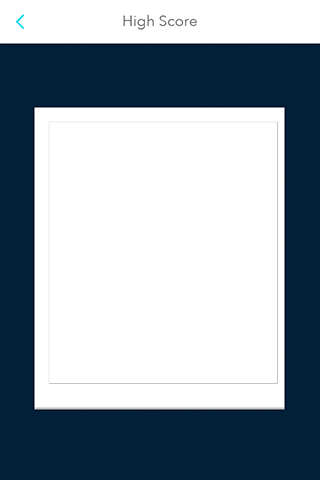
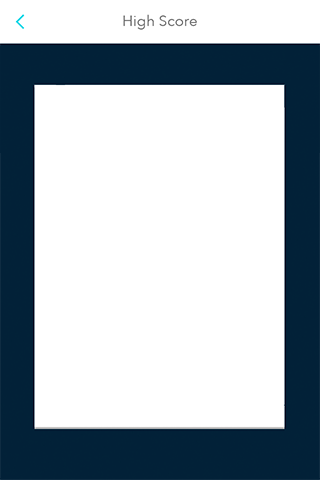
fixed stuff for andrew

Changed region(s): [[0.0938, 0.1562, 0.9062, 0.25], [0.0938, 0.8438, 0.9062, 0.9062], [0.8438, 0.7812, 0.875, 0.8125]]

diff --git a/Projectfiles/StatLayer.m b/Projectfiles/StatLayer.m
@@ -7,6 +7,7 @@
 //
 
 #import "StatLayer.h"
+#import "Dead.h"
 
 @implementation StatLayer
 
@@ -32,14 +33,24 @@ CGSize screenSize;
         }
         //[self addChild:gameTitle];
         
+        CCSprite* bg;
         
-        CCSprite* bg = [CCSprite spriteWithFile:@"statbg.png"];
-        bg.position = ccp(160,240);
+        if([[NSUserDefaults standardUserDefaults] boolForKey:@"iphone5"] == true)
+        {
+            bg = [CCSprite spriteWithFile:@"statbg-iphone.png"];
+            bg.position =ccp(160,10);
+        }
+        else
+        {
+            bg = [CCSprite spriteWithFile:@"statbg.png"];
+            bg.position = ccp(160,240);
+        }
+        
         [self addChild:bg z:-20];
         
         if([[NSUserDefaults standardUserDefaults] boolForKey:@"iphone5"] == true)
         {
-            bg.position = ccp(160,328);
+            bg.position = ccp(160,284);
             CCSprite* fill = [CCSprite spriteWithFile:@"darkbluefill.png"];
             fill.position = [CCDirector sharedDirector].screenCenter;
             [self addChild:fill z:-100];
@@ -106,9 +117,9 @@ CGSize screenSize;
             
             if(pos.y < 50 && pos.y > 0 && pos.x < 40)
             {
-                [MGWU showMessage:@"Whyd u reset the data mun" withImage:nil];
-                NSString *appDomain = [[NSBundle mainBundle] bundleIdentifier];
-                [[NSUserDefaults standardUserDefaults] removePersistentDomainForName:appDomain];
+                //[MGWU showMessage:@"Whyd u reset the data mun" withImage:nil];
+              //  NSString *appDomain = [[NSBundle mainBundle] bundleIdentifier];
+               // [[NSUserDefaults standardUserDefaults] removePersistentDomainForName:appDomain];
 
             }
         }
@@ -123,9 +134,9 @@ CGSize screenSize;
             
             if(pos.y < 50 && pos.y > 0 && pos.x < 40)
             {
-                [MGWU showMessage:@"Whyd u reset the data mun" withImage:nil];
-                NSString *appDomain = [[NSBundle mainBundle] bundleIdentifier];
-                [[NSUserDefaults standardUserDefaults] removePersistentDomainForName:appDomain];
+           //     [MGWU showMessage:@"Whyd u reset the data mun" withImage:nil];
+             //   NSString *appDomain = [[NSBundle mainBundle] bundleIdentifier];
+               // [[NSUserDefaults standardUserDefaults] removePersistentDomainForName:appDomain];
             }
         }
         
@@ -135,7 +146,7 @@ CGSize screenSize;
 -(void) goHome
 {
     [[CCDirector sharedDirector] replaceScene:
-	 [CCTransitionSlideInL transitionWithDuration:0.5f scene:[Title node]]];
+	 [CCTransitionSlideInL transitionWithDuration:0.5f scene:[Dead node]]];
     //        [[CCDirector sharedDirector] replaceScene:[HelloWorldLayer node]];
 }
 
@@ -190,7 +201,14 @@ CGSize screenSize;
     //        count = 250;
     //    }
     
-    for (int i = 0; i < 10; i ++)
+    int dep = 10;
+    
+    if([[NSUserDefaults standardUserDefaults] boolForKey:@"iphone5"] == true)
+    {
+        dep = 13;
+    }
+    
+    for (int i = 0; i < dep; i ++)
     {
         NSMutableDictionary *playerDict = [otherPlayers objectAtIndex:i];
         NSNumber * score = [playerDict objectForKey:@"score"];
@@ -224,7 +242,7 @@ CGSize screenSize;
         
         if((i % 2) == 0)
         {
-            label.color = ccc3(41, 128, 185);
+            //label.color = ccc3(41, 128, 185);
         }
         [self addChild:label z: 2];
         
@@ -239,7 +257,7 @@ CGSize screenSize;
         
         if((i % 2) == 0)
         {
-            label2.color = ccc3(41, 128, 185);
+            //label2.color = ccc3(41, 128, 185);
         }
         [self addChild:label2 z: 2];
         

diff --git a/Projectfiles/HelloWorldLayer.m b/Projectfiles/HelloWorldLayer.m
@@ -9,6 +9,7 @@
 #import "SimpleAudioEngine.h"
 #import "Player.h"
 #import "Dead.h"
+#import "Victory.h"
 #import "LevelSelect.h"
 #import "StoreLayer.h"
 
@@ -126,7 +127,7 @@ CCLabelTTF* countdownlabel;
         gameSegment = 0;
         bosstime = false;
         
-        isTimeWarped = false;
+        isTimeWarped = true;
         
         thetemporalint = 180;
         
@@ -1413,7 +1414,7 @@ CCLabelTTF* countdownlabel;
                 {
                     int tempInt = (arc4random() % 300) -245;
                     
-                    [self shootBulletwithPosDonkey:2 angle:270 xpos:tempInt ypos:0];
+                    [self shootBulletwithPosDonkey:3 angle:270 xpos:tempInt ypos:0];
                 }
             }
             else if(attacktype == 2)
@@ -1627,7 +1628,7 @@ CCLabelTTF* countdownlabel;
                 {
                     int tempInt = (arc4random() % 300) -245;
                     
-                    [self shootBulletwithPosDonkey:2 angle:270 xpos:tempInt ypos:0];
+                    [self shootBulletwithPosDonkey:3 angle:270 xpos:tempInt ypos:0];
                 }
             }
             else if(attacktype == 12)
@@ -2635,6 +2636,8 @@ CCLabelTTF* countdownlabel;
     
     border = [CCSprite spriteWithFile:@"continue.png"];
     
+    border.scale = 2;
+    
     border.position = ccp(160,240);
     
     [self addChild:border z:9051];
@@ -2699,6 +2702,11 @@ CCLabelTTF* countdownlabel;
     helloWorld = [hello stringByAppendingString:world];
     burpworld = @" coins.";
     coinc = [helloWorld stringByAppendingString:burpworld];
+    
+    if([coinc isEqualToString:@"Continue for 1 coins."])
+    {
+        coinc = @"Continue for 1 coin.";
+    }
     
     
     
@@ -3049,7 +3057,25 @@ CCLabelTTF* countdownlabel;
         
         if(isTimeWarped == true)
         {
-            speed = speed + 3;
+            if(level != 3)
+            {
+                speed = speed + 3;
+            }
+            else
+            {
+                if(gameSegment == 0)
+                {
+                    
+                }
+                else if(gameSegment == 4)
+                {
+                    
+                }
+                else
+                {
+                    speed = speed + 3;
+                }
+            }
         }
         
         
@@ -3073,7 +3099,25 @@ CCLabelTTF* countdownlabel;
         
         if(isTimeWarped == true)
         {
-            speed = speed + 3;
+            if(level != 3)
+            {
+                speed = speed + 3;
+            }
+            else
+            {
+                if(gameSegment == 0)
+                {
+                    
+                }
+                else if(gameSegment == 4)
+                {
+                    
+                }
+                else
+                {
+                    speed = speed + 3;
+                }
+            }
         }
         
         float vx = cos(angle * M_PI / 180) * speed;
@@ -4025,7 +4069,7 @@ CCLabelTTF* countdownlabel;
         
         [self addChild: label];
         [[CCDirector sharedDirector] pushScene:
-         [CCTransitionCrossFade transitionWithDuration:0.5f scene:[LevelSelect node]]];
+         [CCTransitionCrossFade transitionWithDuration:0.5f scene:[Victory node]]];
     }
     
     

diff --git a/Projectfiles/Victory.m b/Projectfiles/Victory.m
@@ -1,0 +1,55 @@
+//
+//  Victory.m
+//  bullet hell-o
+//
+//  Created by Kevin Frans on 7/8/14.
+//
+//
+
+#import "Victory.h"
+#import "Title.h"
+
+@implementation Victory
+
+-(id) init
+{
+    if ((self = [super init]))
+    {
+        glClearColor(255, 255, 255, 255);
+        [self unscheduleAllSelectors];
+        
+        // have everything stop
+        CCNode* node;
+        CCARRAY_FOREACH([self children], node)
+        {
+            [node pauseSchedulerAndActions];
+        }
+        
+        
+        CCSprite* bg = [CCSprite spriteWithFile:@"darkbluefill.png"];
+        bg.position = [[CCDirector sharedDirector] screenCenter];
+        [self addChild:bg];
+        
+        CCSprite* victory = [CCSprite spriteWithFile:@"victory.png"];
+        victory.position = [[CCDirector sharedDirector] screenCenter];
+        [self addChild:victory];
+        
+        [self scheduleUpdate];
+    }
+    return self;
+    
+}
+
+
+-(void) update:(ccTime)delta
+{
+    
+    if ([KKInput sharedInput].anyTouchBeganThisFrame)
+    {
+        [[CCDirector sharedDirector] pushScene:
+         [CCTransitionCrossFade transitionWithDuration:0.5f scene:[Title node]]];
+    }
+    
+}
+
+@end

diff --git a/Projectfiles/Victory.h b/Projectfiles/Victory.h
@@ -1,0 +1,13 @@
+//
+//  Victory.h
+//  bullet hell-o
+//
+//  Created by Kevin Frans on 7/8/14.
+//
+//
+
+#import "CCScene.h"
+
+@interface Victory : CCScene
+
+@end
